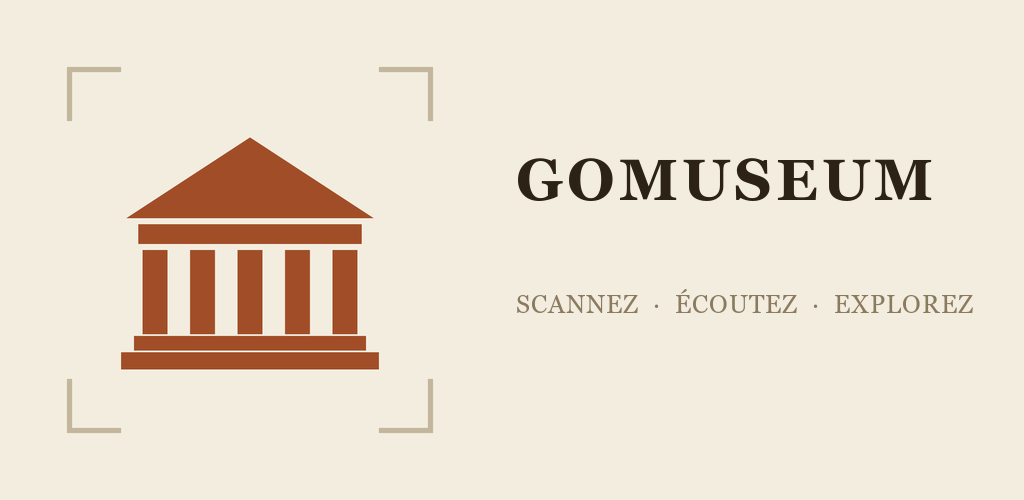
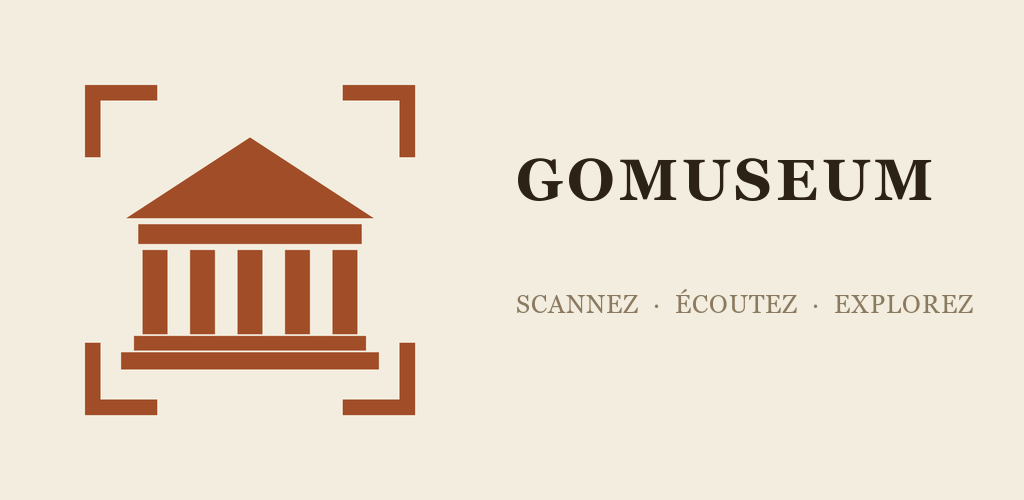
feat(aso): 商店图标 V1 加粗角标 + 三语置顶大图同步换图标
角标对比度 1.72:1→4.95:1。脚本只重画置顶大图左侧图标区，文字区逐像素不变。
桌面自适应图标无角标，不需发包。

Claude-Session: https://claude.ai/code/session_01JvsrtXUGnRKmPJdBrkTY4D

diff --git a/tools/aso/make_icon_v1_and_feature_graphic.py b/tools/aso/make_icon_v1_and_feature_graphic.py
@@ -1,0 +1,52 @@
+"""Play 商店图标 V1（加粗取景框角标）+ 三语置顶大图同步换图标。
+
+背景：Console 里的图标取景框角标偏大偏淡（角标 vs 底色对比度 1.72:1，48px 下不可见）。
+V1 = 同一个陶土红柱廊 + 奶油底，角标改陶土红、加粗、收紧。桌面自适应图标本来就没有角标，
+所以只改商店侧素材，不需要发包。
+
+置顶大图只重画左侧图标区（x<500），文字区原样保留，所以三语文字与旧稿逐像素一致。
+
+用法（仓库根目录）：  cd backend && poetry run python ../tools/aso/make_icon_v1_and_feature_graphic.py
+"""
+
+from pathlib import Path
+
+from PIL import Image, ImageDraw
+
+ROOT = Path(__file__).resolve().parents[2]
+FOREGROUND = ROOT / "frontend/gomuseum_app/assets/icon/app_icon_foreground.png"
+ICON_OUT = ROOT / "docs/play-assets/icon-candidates/icon_512_V1_cream_bold_brackets.png"
+FG_DIR = ROOT / "docs/play-assets/feature-graphic"
+
+CREAM = (0xF3, 0xED, 0xDF)
+TERRA = (0xA1, 0x4E, 0x28)
+K = 8  # 超采样倍数
+
+
+def icon(size: int) -> Image.Image:
+    """奶油底 + 陶土红柱廊 + 陶土红加粗角标（inset 64 / arm 84 / stroke 18，按 512 基准）。"""
+    n = size * K
+    im = Image.new("RGB", (n, n), CREAM)
+    alpha = Image.open(FOREGROUND).convert("RGBA").resize((n, n), Image.LANCZOS)
+    im.paste(Image.new("RGB", (n, n), TERRA), (0, 0), alpha.getchannel("A"))
+    d, u = ImageDraw.Draw(im), n / 512
+    i, arm, w = 64 * u, 84 * u, 18 * u
+    lo = n - i
+    for x, y, sx, sy in ((i, i, 1, 1), (lo, i, -1, 1), (i, lo, 1, -1), (lo, lo, -1, -1)):
+        d.rectangle([min(x, x + sx * arm), min(y, y + sy * w), max(x, x + sx * arm), max(y, y + sy * w)], fill=TERRA)
+        d.rectangle([min(x, x + sx * w), min(y, y + sy * arm), max(x, x + sx * w), max(y, y + sy * arm)], fill=TERRA)
+    return im.resize((size, size), Image.LANCZOS)
+
+
+def feature_graphic(path: Path) -> None:
+    fg = Image.open(path).convert("RGB")
+    ImageDraw.Draw(fg).rectangle([0, 0, 499, fg.height], fill=CREAM)  # 文字从 x=516 起
+    fg.paste(icon(440), (30, (fg.height - 440) // 2))  # 与旧稿同位置：West +30
+    fg.save(path, optimize=True)
+
+
+if __name__ == "__main__":
+    icon(512).save(ICON_OUT, optimize=True)
+    for lang in ("en-US", "fr-FR", "zh-CN"):
+        feature_graphic(FG_DIR / f"{lang}.png")
+    print("ok")

diff --git a/tools/aso/test_make_icon_v1_and_feature_graphic.py b/tools/aso/test_make_icon_v1_and_feature_graphic.py
@@ -1,0 +1,34 @@
+"""Play 素材规格：图标 512×512 无透明通道 ≤1MB；置顶大图 1024×500 ≤15MB；角标在 48px 下可见。"""
+
+import importlib.util
+from pathlib import Path
+
+from PIL import Image
+
+_spec = importlib.util.spec_from_file_location(
+    "make_icon", Path(__file__).with_name("make_icon_v1_and_feature_graphic.py")
+)
+mod = importlib.util.module_from_spec(_spec)
+_spec.loader.exec_module(mod)
+
+
+def _lum(c):
+    f = lambda v: v / 12.92 if v <= 0.03928 else ((v + 0.055) / 1.055) ** 2.4
+    r, g, b = (f(x / 255) for x in c)
+    return 0.2126 * r + 0.7152 * g + 0.0722 * b
+
+
+def test_icon_spec_and_bracket_contrast():
+    assert mod.ICON_OUT.stat().st_size < 1_000_000
+    im = Image.open(mod.ICON_OUT)
+    assert im.size == (512, 512) and im.mode == "RGB"
+    bracket = im.getpixel((64 + 40, 64 + 9))  # 左上角标横臂中部
+    hi, lo = sorted((_lum(bracket), _lum(mod.CREAM)), reverse=True)
+    assert (hi + 0.05) / (lo + 0.05) >= 3  # 旧稿角标只有 1.72
+
+
+def test_feature_graphics_spec():
+    for lang in ("en-US", "fr-FR", "zh-CN"):
+        p = mod.FG_DIR / f"{lang}.png"
+        assert p.stat().st_size < 15_000_000
+        assert Image.open(p).size == (1024, 500)

diff --git a/docs/play-assets/feature-graphic/README.md b/docs/play-assets/feature-graphic/README.md
@@ -23,3 +23,11 @@ ImageMagick 直接读会报 `unable to read font`。
 
 换应用图标后,重跑这套命令(仅替换标语文字)即可让三语言置顶大图同步更新,
 不用重新设计。
+
+## 2026-09-25 更新：图标换成 V1（加粗取景框角标）
+
+上面的 magick 命令用的 `app_icon.png` 角标偏大偏淡（对比度 1.72:1），置顶大图沿用了它。
+现在的三语文件由 `tools/aso/make_icon_v1_and_feature_graphic.py` 生成：只重画左侧图标区，
+文字区与旧稿逐像素一致；同一脚本还输出 `docs/play-assets/icon-candidates/icon_512_V1_cream_bold_brackets.png`。
+桌面自适应图标本来就没有角标，所以**不需要发包**；`assets/icon/app_icon.png` 未改。
+副标题（EN `You don't need to know its name.` / FR `Le guide qui vous suit, sans location.`）见 ASO 待办第 7 项，尚未做。
